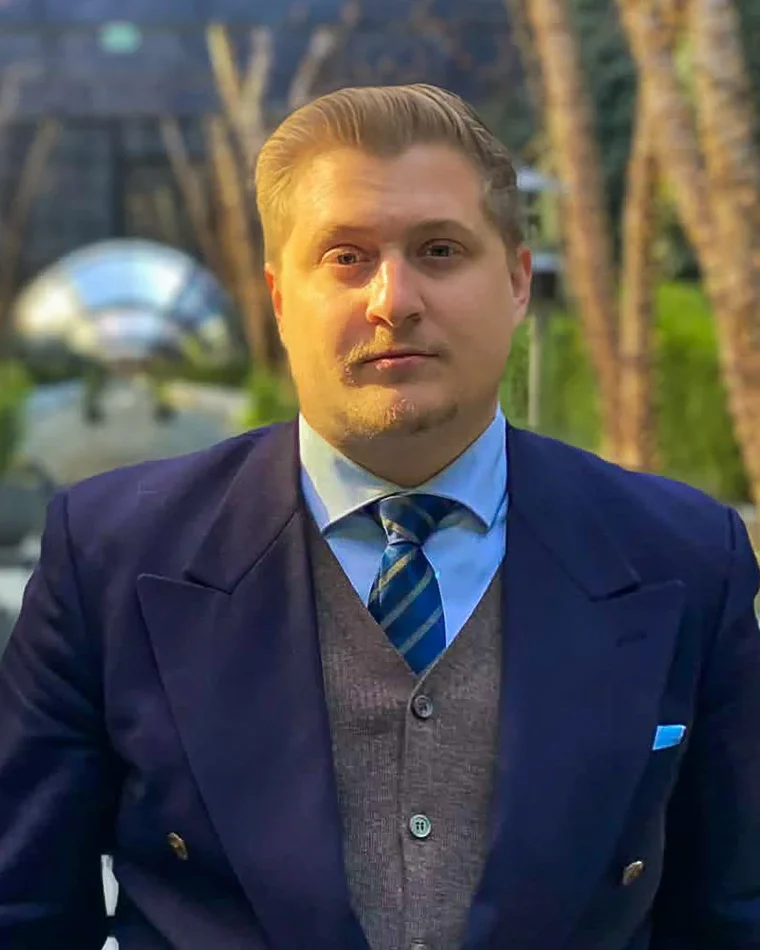
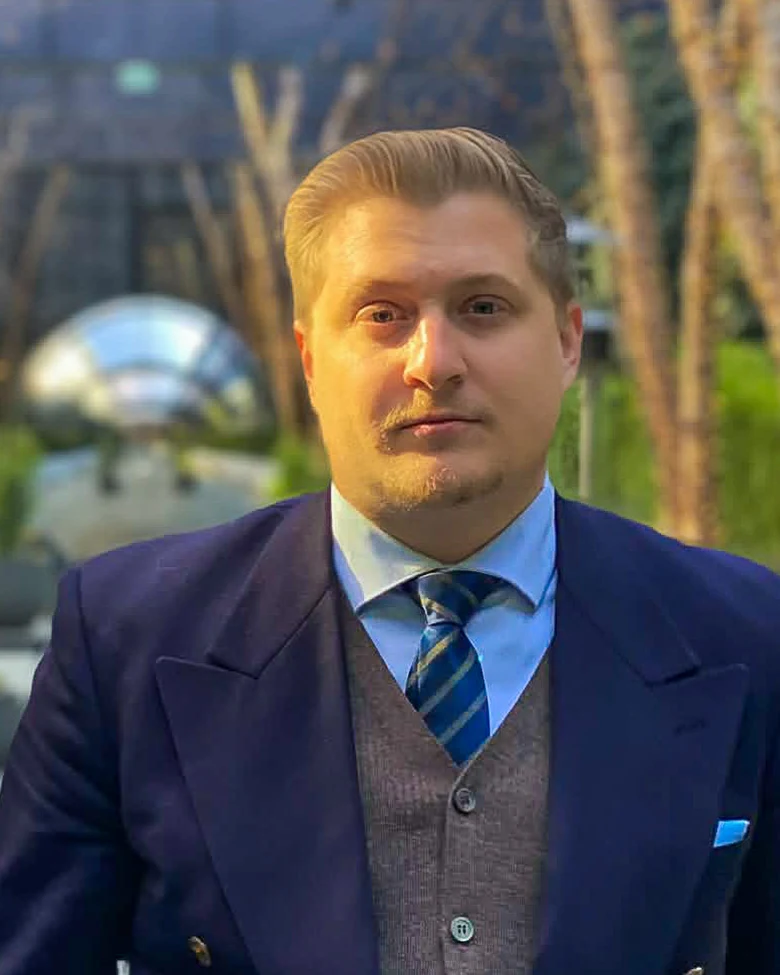
Andrew's photo: tighter crop from the full-size original, sphere kept
Claude-Session: https://claude.ai/code/session_01XMZLBq7HMSR9kpzAdHYSs9

diff --git a/about.html b/about.html
@@ -66,7 +66,7 @@
         <p class="lead">Lickity Split is my web design business, based in Baltimore. I work directly with clients on everything from the first conversation to the finished website, including the design, writing, and technical setup.</p>
         <p class="lead">My background is in writing, editing, communications, and nonprofit work. That experience has influenced the way I approach websites. I care about how they look, but also about how the information is organized, whether the writing is clear, and how easy they are to use.</p>
       </div>
-      <img src="andrew-about.webp?v=2" alt="Andrew Likoudis" width="880" height="1100" decoding="async">
+      <img src="andrew-about.webp?v=3" alt="Andrew Likoudis" width="880" height="1100" decoding="async">
     </div>
   </section>
 

diff --git a/index.html b/index.html
@@ -132,7 +132,7 @@
 
   <section class="sec sec-stone" id="about">
     <div class="wrap about-strip">
-      <img src="andrew.webp?v=2" alt="Andrew Likoudis" width="760" height="950" loading="lazy" decoding="async">
+      <img src="andrew.webp?v=3" alt="Andrew Likoudis" width="780" height="975" loading="lazy" decoding="async">
       <div class="prose">
         <h2>You&rsquo;ll work directly with me.</h2>
         <p>I&rsquo;m Andrew, the person behind Lickity Split. My background is in writing, editing, communications, and nonprofit work, and I bring that experience to web design.</p>

diff --git a/tools/pages2.py b/tools/pages2.py
@@ -212,7 +212,7 @@ def about():
         <p class="lead">Lickity Split is my web design business, based in Baltimore. I work directly with clients on everything from the first conversation to the finished website, including the design, writing, and technical setup.</p>
         <p class="lead">My background is in writing, editing, communications, and nonprofit work. That experience has influenced the way I approach websites. I care about how they look, but also about how the information is organized, whether the writing is clear, and how easy they are to use.</p>
       </div>
-      <img src="andrew-about.webp?v=2" alt="Andrew Likoudis" width="880" height="1100" decoding="async">
+      <img src="andrew-about.webp?v=3" alt="Andrew Likoudis" width="880" height="1100" decoding="async">
     </div>
   </section>
 

diff --git a/tools/pages1.py b/tools/pages1.py
@@ -61,7 +61,7 @@ def home():
 
   <section class="sec sec-stone" id="about">
     <div class="wrap about-strip">
-      <img src="andrew.webp?v=2" alt="Andrew Likoudis" width="760" height="950" loading="lazy" decoding="async">
+      <img src="andrew.webp?v=3" alt="Andrew Likoudis" width="780" height="975" loading="lazy" decoding="async">
       <div class="prose">
         <h2>You&rsquo;ll work directly with me.</h2>
         <p>I&rsquo;m Andrew, the person behind Lickity Split. My background is in writing, editing, communications, and nonprofit work, and I bring that experience to web design.</p>
